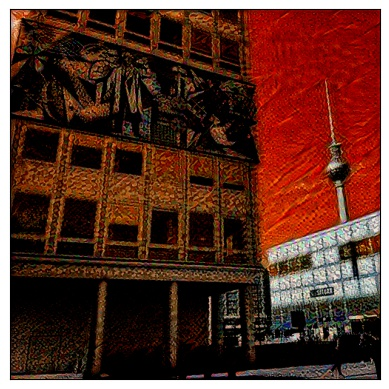
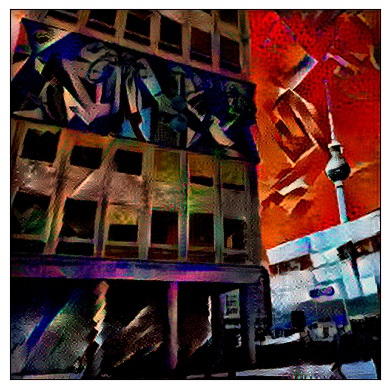
edits and allowed to run longer

diff --git a/README.md b/README.md
@@ -1,4 +1,4 @@
-# Neural-Style Transfer
+# Neural Style Transfer
 
 Here, we follow the implementation given in [this Tensorflow example](https://blog.tensorflow.org/2018/08/neural-style-transfer-creating-art-with-deep-learning.html). We had to edit this code in order to run properly following, to some extent, the implementation given [here](https://github.com/ravising-h/Neural-Style-Transfer). The main idea is to use a convolution neural network (CNN) to map the style from one picture onto the other. This is made possible with the pre-trained network `VGG19` in `Tensorflow`. This network takes as an input the pixels and RBG colors for each pixel of both an original image and a style image, thus transfering the style onto the original photo. Note that I did not write the majority of the functions in `StyleTransfer.py` but rather corrected several bugs here and collected the code into an easily useable format. See below for the methods implemented for running the code. 
 
@@ -8,7 +8,7 @@ This project is done specifically for an art class I took in Berlin while studyi
 
 ### Subject Photos
 
-I chose as my subject matter the following photos of iconic Berlin scenes:
+I choose as my subject matter the following photos of iconic Berlin scenes:
 
 1. Haus das Lehers mit Fernsehturm in Hintergrund
 
@@ -64,6 +64,8 @@ Possible command-line arguments are
 ```
 python3 perform_transfer.py --nEpochs=100 --learning_rate=10.0 --content_path=<path_to_content> --style_path=<path_to_styles> --save_folder=<path_to_save_folder>
 ```
+
+All the above photos are created with a learning rate of 10.0 over 500 epochs of training. This takes approximately 17 minutes to complete on a M1 mac with 16GB of RAM. 
 
 ## Preparing Photos
 
